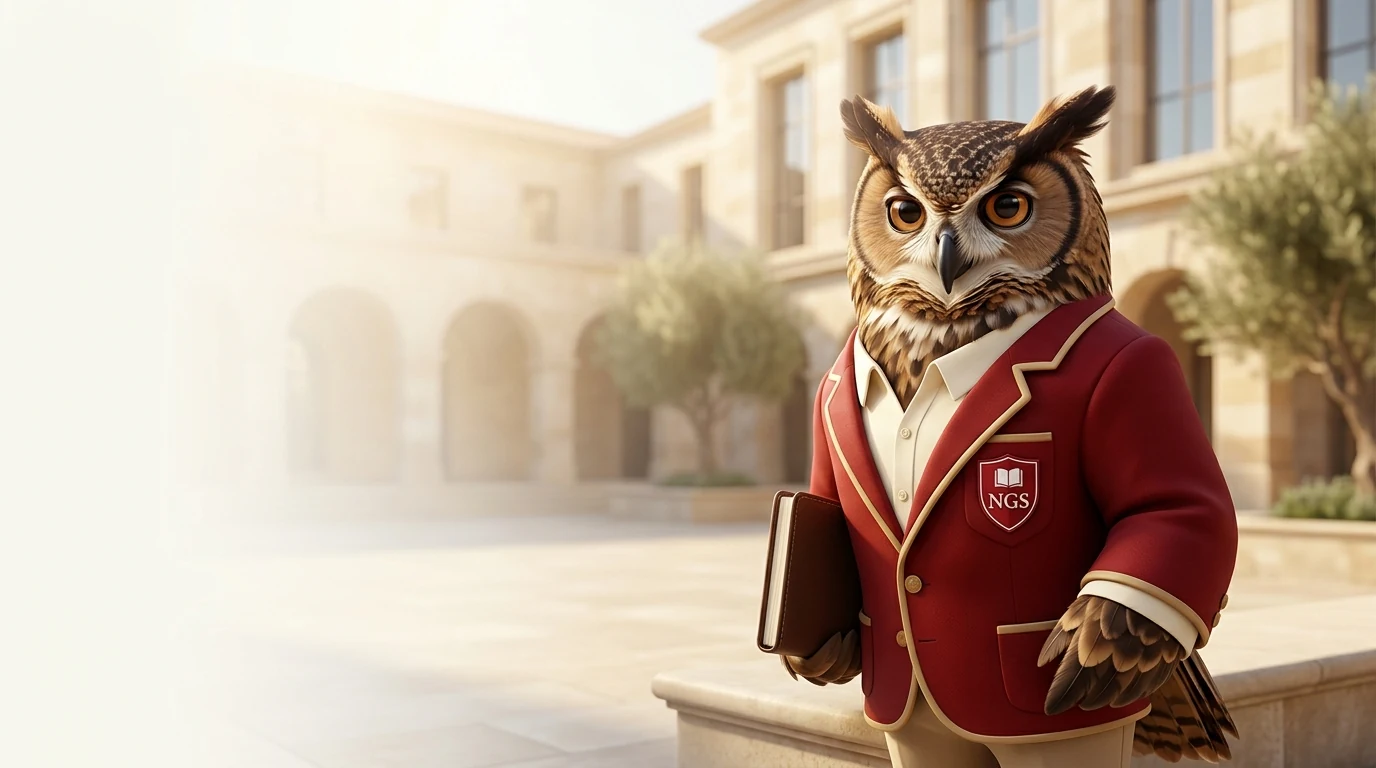
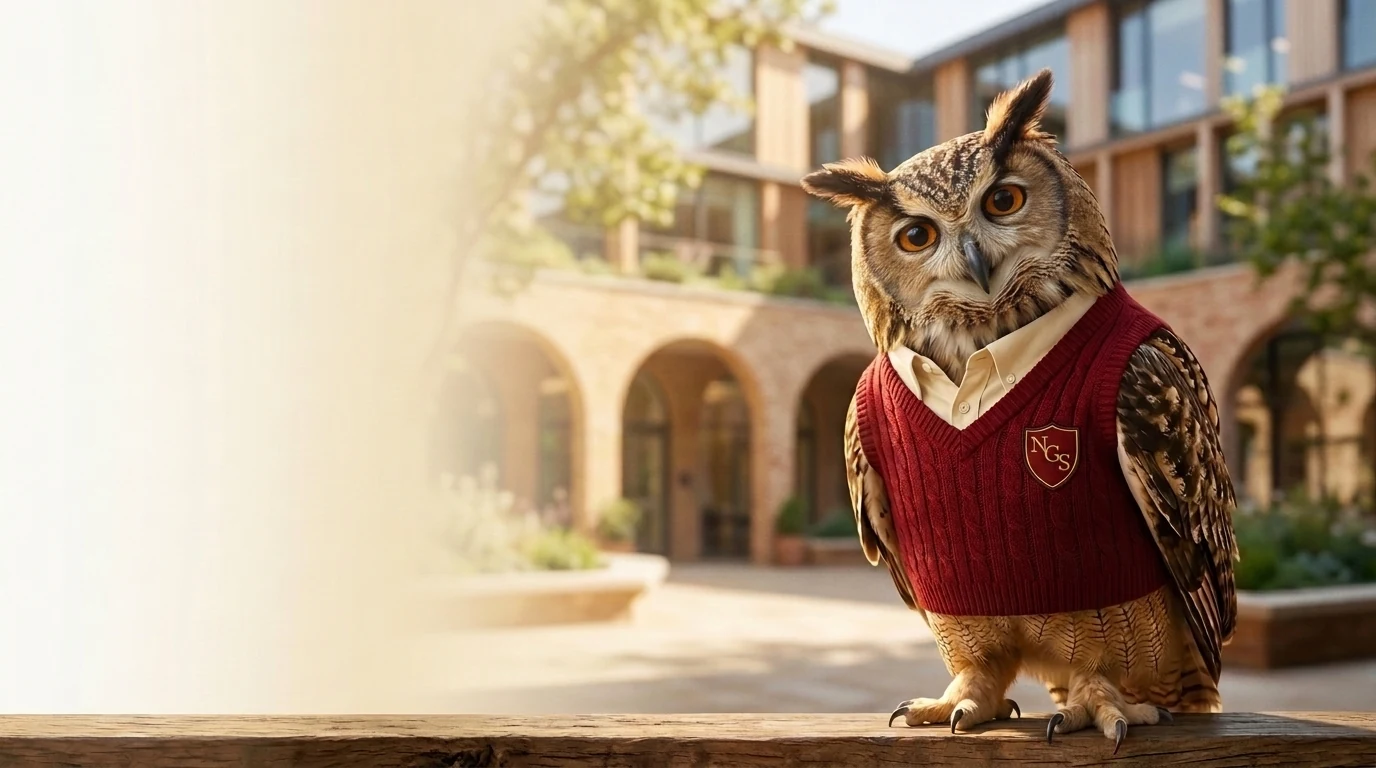
feat(hero): update hero mascot to warmer cinematic VFX owl in NGS crimson knit vest

diff --git a/components/Hero.jsx b/components/Hero.jsx
@@ -302,7 +302,7 @@ export default function Hero({
                   w="full"
                   h={{ base: "240px", sm: "300px" }}
                   objectFit="cover"
-                  objectPosition="76% 18%"
+                  objectPosition="73% 16%"
                 />
                 <Flex
                   position="absolute"
